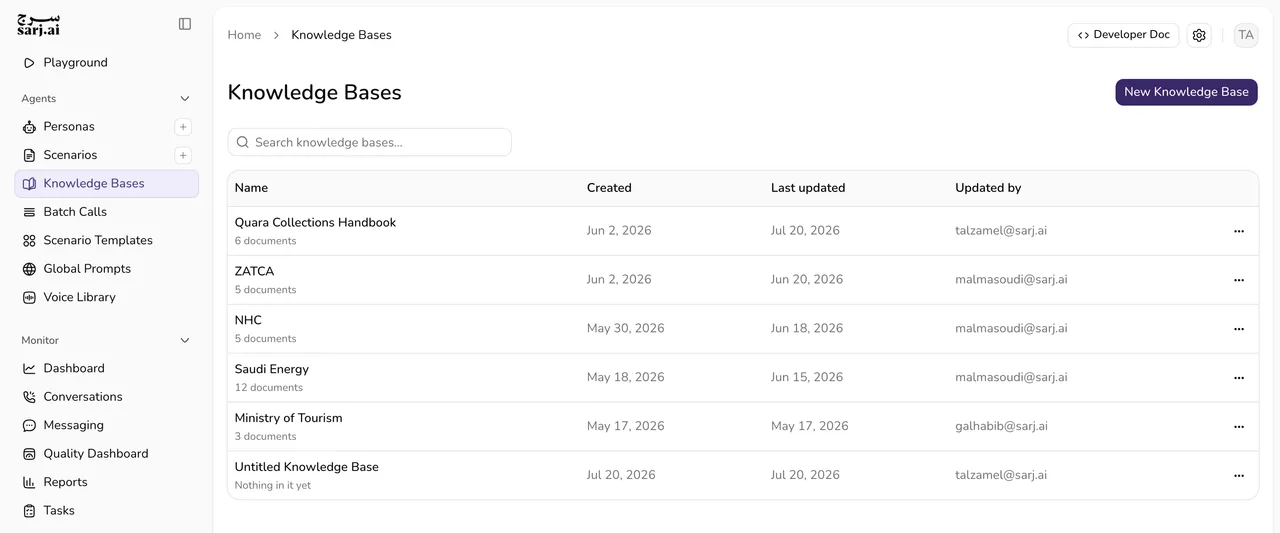
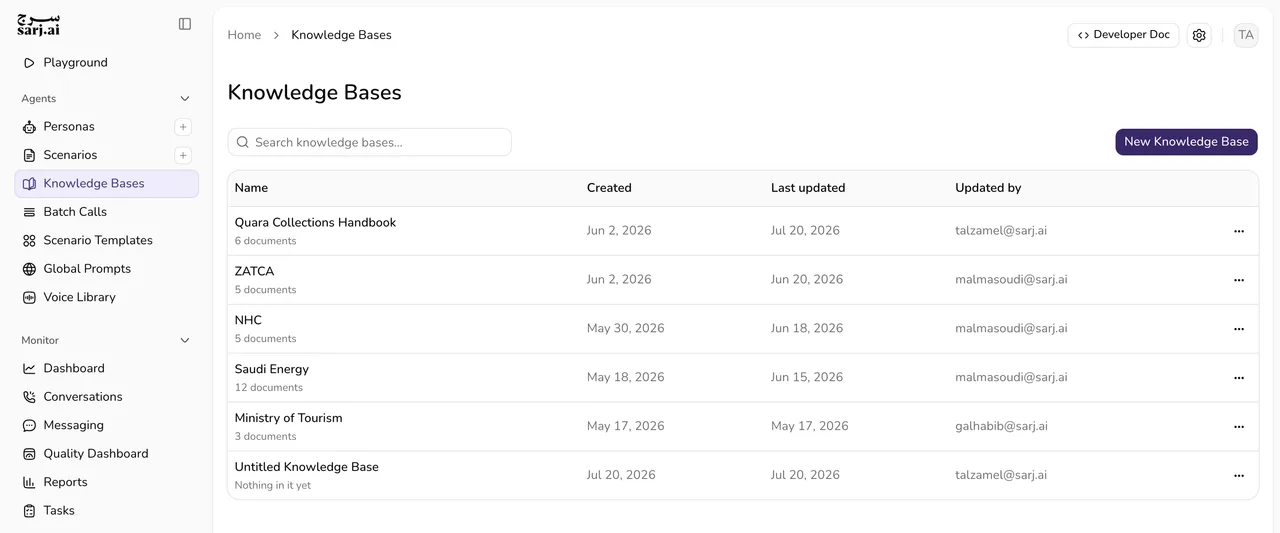
fix(knowledge-base): put the create button on the search row
The button sat on the title row while search sat alone below it, leaving
the whole right half of that row empty and the two controls on different
lines for no reason. Moving it down puts search and the action that adds
to the table on one row, right edge against the table's.

The header is left holding only the h1, so its flex classes go with the
button.

Registry and thumbnail rebuilt for the change. The other fifteen
thumbnails were already stale before this and are left alone.

Changed region(s): [[0.8438, 0.1201, 1.0, 0.2101], [0.875, 0.2402, 1.0, 0.3002]]

diff --git a/src/components/knowledge-base/knowledge-base-index.tsx b/src/components/knowledge-base/knowledge-base-index.tsx
@@ -66,25 +66,30 @@ export function KnowledgeBaseIndex({
   return (
     <AppShell active="Knowledge Bases">
       <div className="flex flex-col gap-6 p-3 lg:p-4">
-        <header className="flex flex-wrap items-center justify-between gap-4">
+        <header>
           <h1 className="text-2xl font-semibold">Knowledge Bases</h1>
-          <Button onClick={() => setCreating(true)}>New Knowledge Base</Button>
         </header>
 
-        {/* Search sits outside the card rather than in a band inside it. It is
-          one control over one table, so the card can hold only the table, and
-          the gap here is tighter than the page's own so the two still read as
-          one thing. */}
+        {/* Search sits outside the card rather than in a band inside it, sharing
+          a row with the action that adds to the table — so the card can hold
+          only the table, and the gap here is tighter than the page's own so the
+          two still read as one thing. */}
         <section className="flex flex-col gap-4">
-          <InputGroup className="max-w-80">
-            <InputGroupAddon>
-              <SearchIcon />
-            </InputGroupAddon>
-            <InputGroupInput
-              placeholder="Search knowledge bases..."
-              aria-label="Search knowledge bases"
-            />
-          </InputGroup>
+          <div className="flex flex-wrap items-center justify-between gap-4">
+            <InputGroup className="max-w-80">
+              <InputGroupAddon>
+                <SearchIcon />
+              </InputGroupAddon>
+              <InputGroupInput
+                placeholder="Search knowledge bases..."
+                aria-label="Search knowledge bases"
+              />
+            </InputGroup>
+
+            <Button onClick={() => setCreating(true)}>
+              New Knowledge Base
+            </Button>
+          </div>
 
           {/* `--card-spacing: 0` is how Card is told its content reaches the
             edge — the table draws its own header band and row rules, so the
